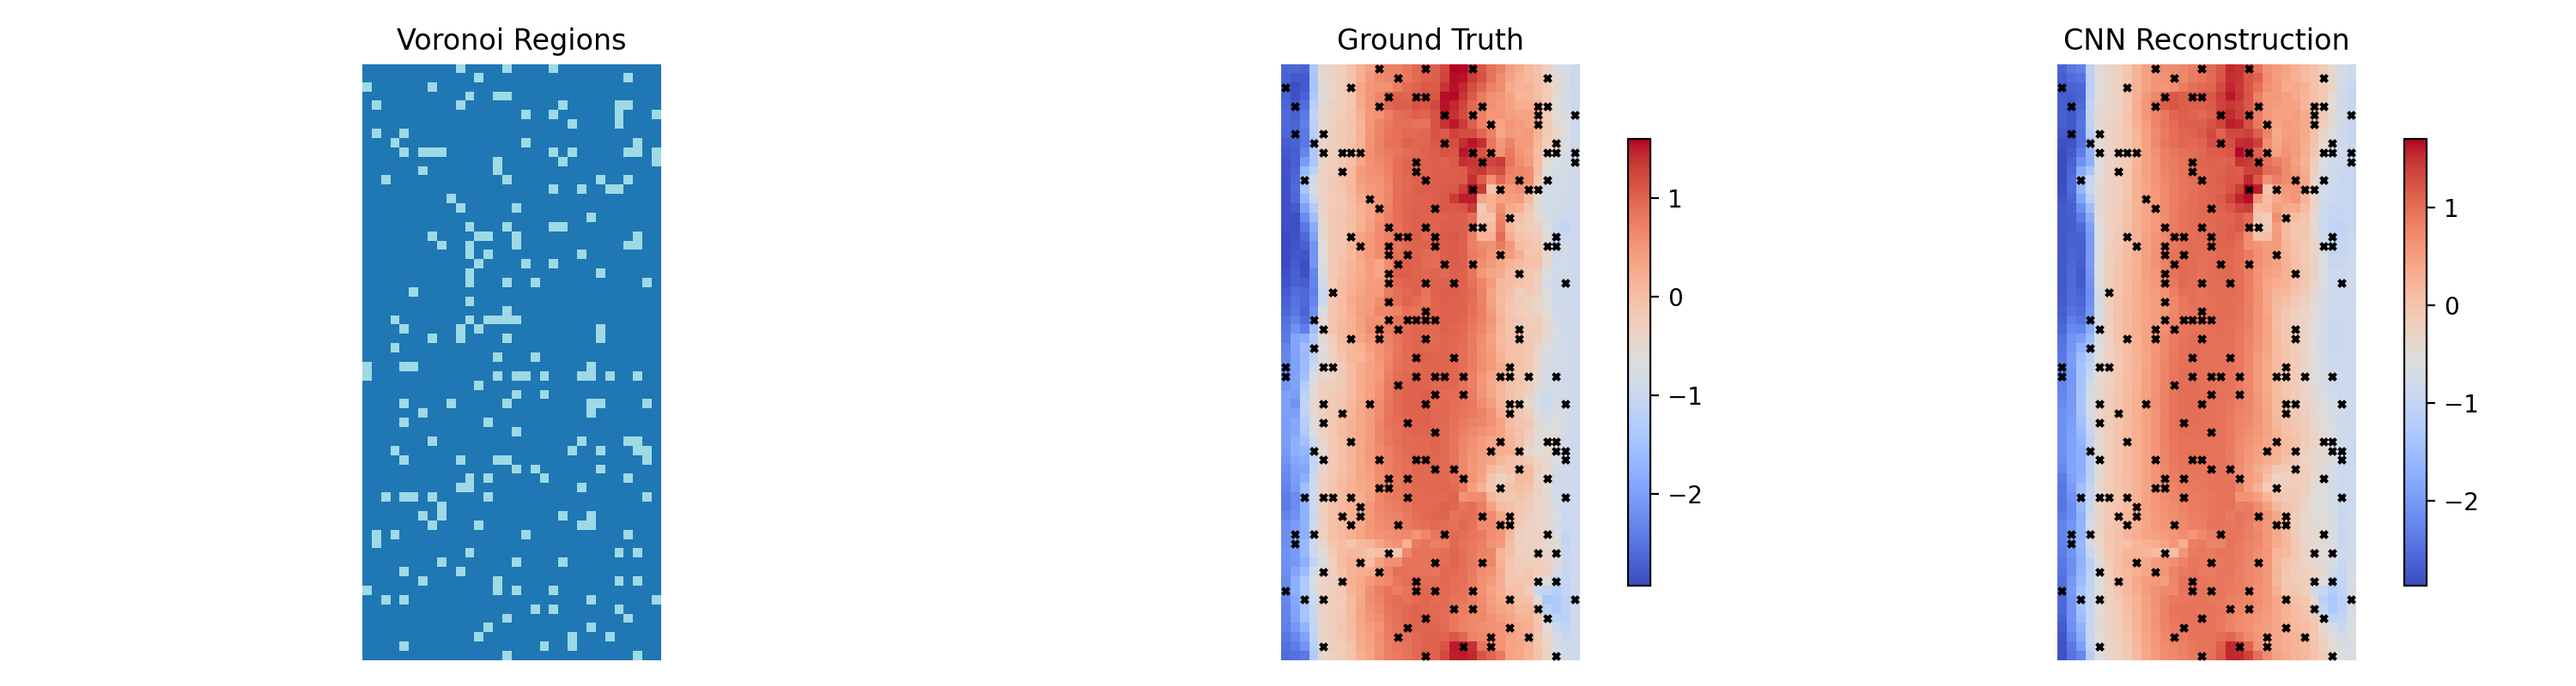
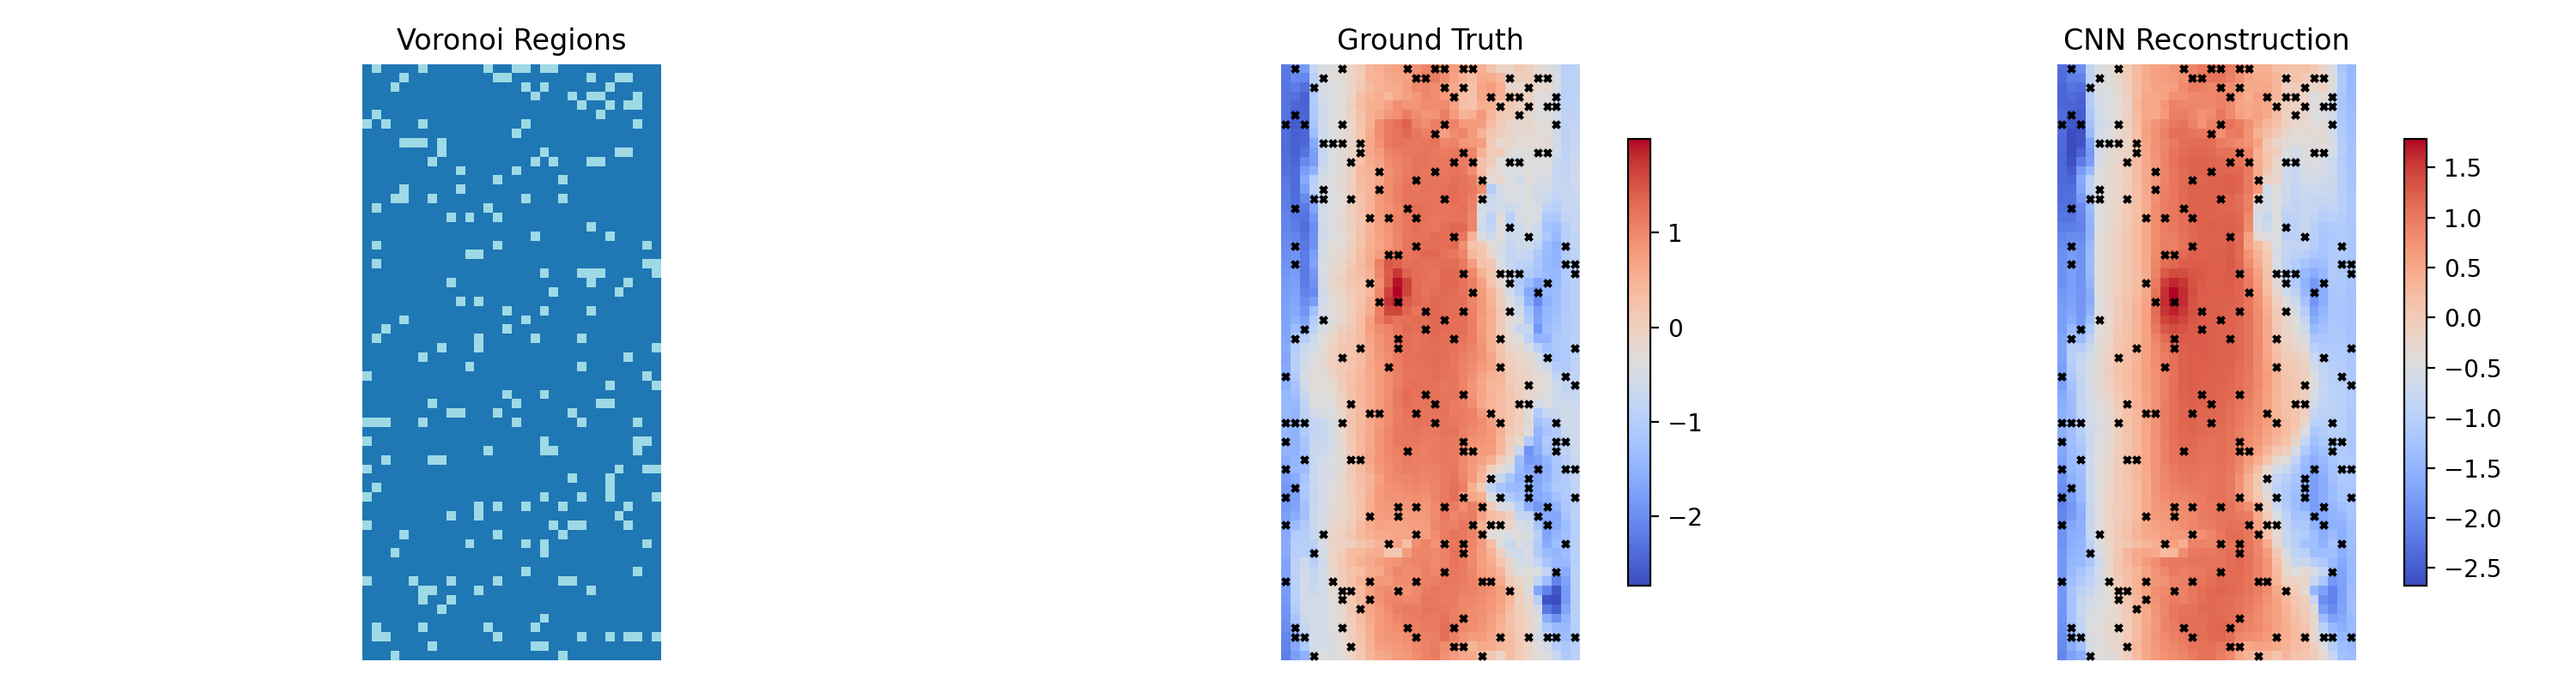
Added Unet, Resnet, Testing

diff --git a/src/field_reconstruction/test.py b/src/field_reconstruction/test.py
@@ -7,15 +7,7 @@ from tqdm import tqdm
 from models import FukamiNet, ReconstructionVAE
 from utils import get_device
 from plots_creator import plot_voronoi_reconstruction_comparison
-
-def create_model(model_name, channels=2, latent_dim=128):
-    
-    if model_name == "fukami":
-        return FukamiNet()
-    elif model_name == "vae":
-        return ReconstructionVAE(channels=channels, latent_dim=latent_dim)
-    else:
-        raise ValueError(f"Unknown model type: {model_name}")
+from utils import create_model, get_device
 
 def rrmse(pred, target):
     """
@@ -50,15 +42,19 @@ def mae(pred, target):
     """
     return torch.mean(torch.abs(pred - target))
 
-def evaluate(model, test_loader, model_name, config):
+def evaluate(model_type, test_loader,checkpoint_path):
     device = get_device()
-    model = create_model(model_name).to(device)
+    model = create_model(model_type).to(device)
     
     # Load checkpoint
-    checkpoint_path = config["checkpoint_path"]
+    #Add folder to the path
+    checkpoint_path = os.path.join("models/saves", checkpoint_path)
     model.load_state_dict(torch.load(checkpoint_path, map_location=device))
     model.eval()
-
+    print(f"✅ Loaded model from {checkpoint_path}")
+    print(f"✅ Evaluating model on {len(test_loader.dataset)} samples")
+    print(f"✅ Model type: {model_type}")
+    print(f"✅ Device: {device}")
     rrmse_total = 0.0
     mae_total = 0.0
     n = 0
@@ -68,7 +64,7 @@ def evaluate(model, test_loader, model_name, config):
         for inputs, targets in pbar:
             inputs, targets = inputs.to(device), targets.to(device)
 
-            if model_name == "vae":
+            if model_type == "vae":
                 recon_x, mu, logvar = model(inputs)
                 preds = recon_x
             else:
@@ -85,6 +81,7 @@ def evaluate(model, test_loader, model_name, config):
 
     rrmse_avg = rrmse_total / n
     mae_avg = mae_total / n
+    print(f"Evaluation results for {checkpoint_path}:")
     print(f"✅ Test RRMSE: {rrmse_avg:.6f}")
     print(f"✅ Test MAE:   {mae_avg:.6f}")
 

diff --git a/src/field_reconstruction/models/fukami.py b/src/field_reconstruction/models/fukami.py
@@ -60,10 +60,43 @@ class FukamiResNet(nn.Module): #test
         return self.exit(x)
 
 class FukamiUNet(nn.Module):
-    
-    def __init__(self, *args, **kwargs):
-        super(FukamiUNet, self).__init__(*args, **kwargs)
-    
+    def __init__(self, in_channels=2, out_channels=1, base_channels=64):
+        super(FukamiUNet, self).__init__()
+ 
+        # Encoder
+        self.enc1 = self.conv_block(in_channels, base_channels)
+        self.enc2 = self.conv_block(base_channels, base_channels * 2)
+        self.enc3 = self.conv_block(base_channels * 2, base_channels * 4)
+ 
+        # Decoder
+        self.up2 = nn.ConvTranspose2d(base_channels * 4, base_channels * 2, kernel_size=2, stride=2)
+        self.dec2 = self.conv_block(base_channels * 4, base_channels * 2)
+        self.up1 = nn.ConvTranspose2d(base_channels * 2, base_channels, kernel_size=2, stride=2)
+        self.dec1 = self.conv_block(base_channels * 2, base_channels)
+ 
+        # Output
+        self.final = nn.Conv2d(base_channels, out_channels, kernel_size=1)
+ 
+        self.pool = nn.MaxPool2d(2)
+ 
+    def conv_block(self, in_channels, out_channels):
+        return nn.Sequential(
+            nn.Conv2d(in_channels, out_channels, kernel_size=3, padding=1),
+            nn.ReLU(inplace=True),
+            nn.Conv2d(out_channels, out_channels, kernel_size=3, padding=1),
+            nn.ReLU(inplace=True)
+        )
+ 
     def forward(self, x):
-        # Implement the forward pass for the UNet architecture
-        pass
+        # Encoder
+        x1 = self.enc1(x)
+        x2 = self.enc2(self.pool(x1))
+        x3 = self.enc3(self.pool(x2))
+ 
+        # Decoder
+        x = self.up2(x3)
+        x = self.dec2(torch.cat([x, x2], dim=1))
+        x = self.up1(x)
+        x = self.dec1(torch.cat([x, x1], dim=1))
+ 
+        return self.final(x)

diff --git a/src/field_reconstruction/main.py b/src/field_reconstruction/main.py
@@ -12,6 +12,7 @@ import torch
 from utils import sample_sensor_locations, voronoi_tesselate
 from models import FukamiNet, ReconstructionVAE
 from train import train
+from test import evaluate
 from prepare_data import create_and_save_field_reco_dataset, load_field_reco_dataloaders
 from tqdm import tqdm
 
@@ -162,7 +163,19 @@ if __name__ == "__main__":
         
     elif args.test:
         # Call the testing function
-        print("Testing the model...")
-        # test_model(args.model, args.model_path)
+        model_type = config["test"]["model_type"]
+        model_path = config["test"]["model_path"]
+        print(f"Testing model {model_type}...")
+        
+        print(f"📊 Loading data")
+        test_dataloader = load_field_reco_dataloaders(
+            batch_size=batch_size,
+            mode="test",
+            variable=variable,
+            percent=percent,
+        )
+        
+        
+        evaluate(model_type, test_dataloader, model_path)
     else:
         print("No action specified. Use --train or --test.")

diff --git a/src/field_reconstruction/utils.py b/src/field_reconstruction/utils.py
@@ -2,7 +2,7 @@ import numpy as np
 from scipy.spatial import Voronoi
 from skimage.draw import polygon
 import torch
-
+from models import FukamiNet, FukamiResNet, FukamiUNet, ReconstructionVAE
 import numpy as np
 from scipy.spatial import Voronoi
 from skimage.draw import polygon
@@ -66,3 +66,15 @@ def get_device():
     """
     return 'cuda' if torch.cuda.is_available() else 'cpu'
 
+def create_model(model):
+    if model == "fukami":
+        return FukamiNet()
+    elif model == "fukami_resnet":
+        return FukamiResNet()
+    elif model == "fukami_unet":
+        return FukamiUNet()
+    elif model == "vae":
+        # Assuming VAE is defined elsewhere
+        return ReconstructionVAE(channels=2, latent_dim=128)
+    else:
+        raise ValueError(f"Unknown model type: {model}")

diff --git a/src/field_reconstruction/train.py b/src/field_reconstruction/train.py
@@ -5,18 +5,9 @@ from tqdm import tqdm
 import os
 import random
 import numpy as np
-from models import FukamiNet, ReconstructionVAE
-from utils import get_device
+from utils import get_device, create_model
 from plots_creator import plot_voronoi_reconstruction_comparison
 
-def create_model(model):
-    if model == "fukami":
-        return FukamiNet()
-    elif model == "vae":
-        # Assuming VAE is defined elsewhere
-        return ReconstructionVAE(channels=2, latent_dim=128)
-    else:
-        raise ValueError(f"Unknown model type: {model}")
 
 def get_optimizer(model, config):
     """

diff --git a/src/field_reconstruction/models/__init__.py b/src/field_reconstruction/models/__init__.py
@@ -1,2 +1,2 @@
-from models.fukami import FukamiNet
+from models.fukami import FukamiNet, FukamiResNet, FukamiUNet
 from models.vae import ReconstructionVAE
